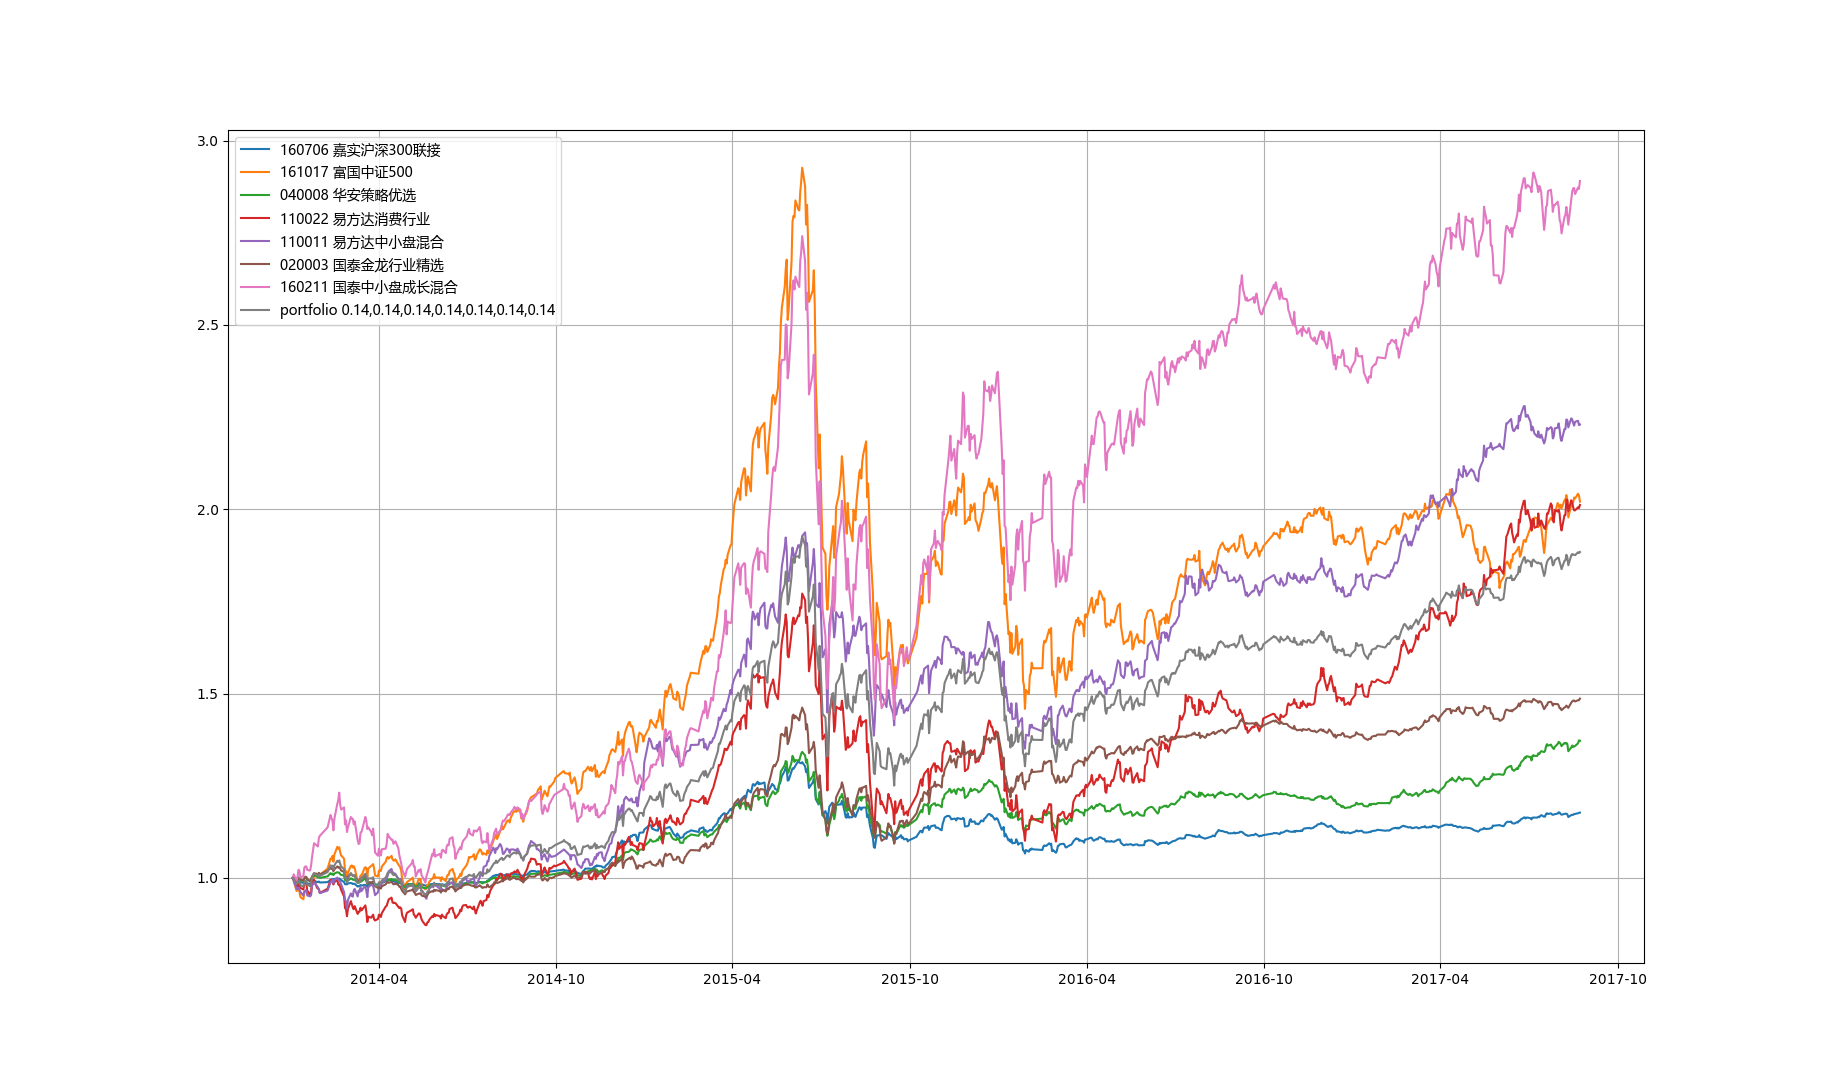
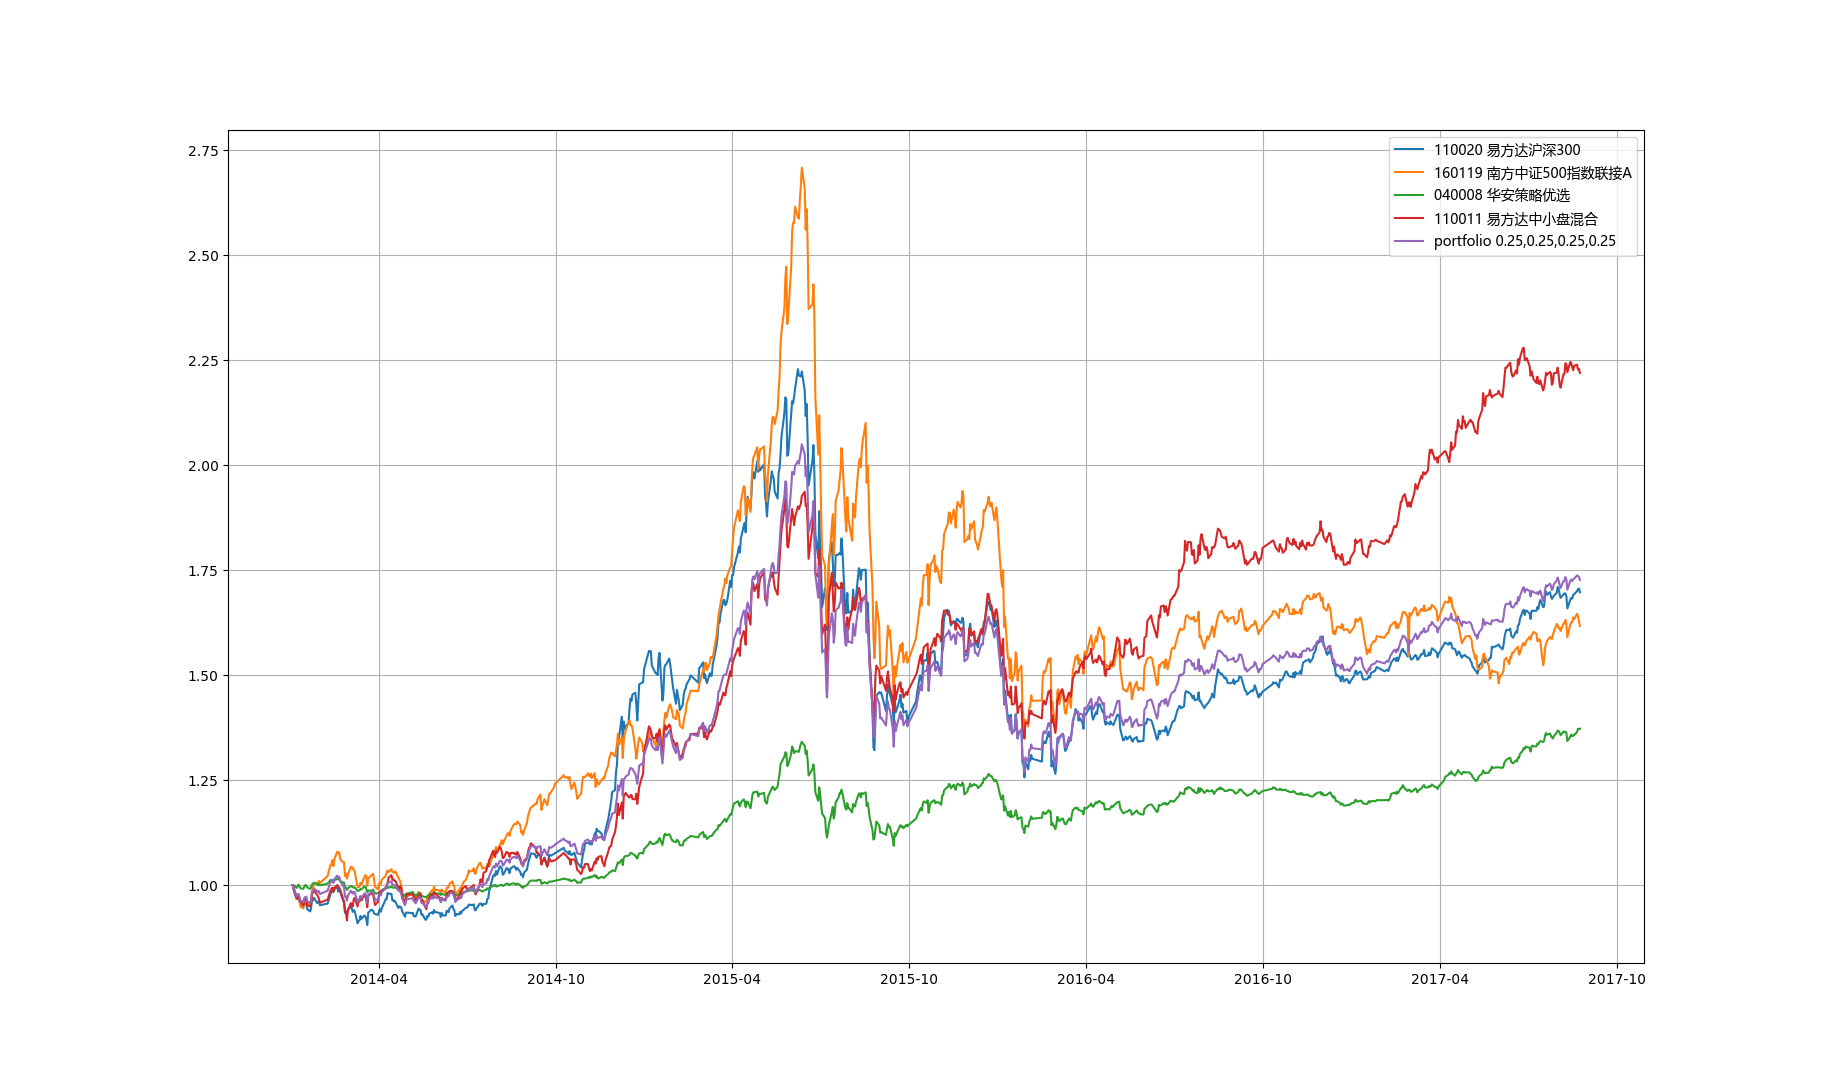
minor changes

diff --git a/funddata.py b/funddata.py
@@ -13,12 +13,13 @@ import pandas as pd
 import matplotlib.pyplot as plt
 import matplotlib.font_manager as fm
 import sys
+import os.path
 
 if __name__ == "__main__":
 
     startdate = '2014-01-01'
     enddate = '2017-08-31'
-    codelist = ['160706', '161017', '040008', '110022', '110011', '020003', '160211']
+    codelist = ['110020', '160119', '040008', '110011']
     use_unitnetvalue = True
 
     # Read command line arguments
@@ -30,15 +31,18 @@ if __name__ == "__main__":
                 del codelist[:]
                 codelist = sys.argv[3:]
 
+    # Print arguments
+    print(os.path.basename(sys.argv[0]), startdate, enddate, ' '.join(codelist))
+
     # portfolio weights
     weightlist = [1/len(codelist) for i in codelist]
 
-    print(startdate, enddate, codelist)
+    # Use unit net value or accumulated net value
+    value_field = 'fld_unitnetvalue' if use_unitnetvalue else 'fld_netvalue'
 
     # Generate URLs from start date, end date and code list
-    urls = ['http://data.funds.hexun.com/outxml/detail/openfundnetvalue.aspx?fundcode='
-          +fundcode+'&startdate='+startdate+'&enddate='+enddate
-          for fundcode in codelist]
+    urls = ['http://data.funds.hexun.com/outxml/detail/openfundnetvalue.aspx?fundcode={0}&startdate={1}&enddate={2}'
+            .format(i, startdate, enddate) for i in codelist]
     namelist = []
     timeserieslist = []
 
@@ -54,7 +58,7 @@ if __name__ == "__main__":
         for child in tree:
             if child.tag == 'Data':
                 datelist.append(datetime.strptime(child.find('fld_enddate').text, '%Y-%m-%d'))
-                valuelist.append(float(child.find('fld_unitnetvalue' if use_unitnetvalue else 'fld_netvalue').text))
+                valuelist.append(float(child.find(value_field).text))
 
         # Create a time series from the lists
         valuelist = [i/valuelist[-1] for i in reversed(valuelist)]

diff --git a/README.md b/README.md
@@ -5,7 +5,7 @@ The code was written in and tested with Python 3.6 (Anaconda 4.4.0).
 ## Usage
 #### Run funddata.py with command line arguments of start date, end date and a list of fund codes
 #### Example:
-python funddata.py 2014-01-01 2017-08-31 160706 161017 040008 110022 110011 020003 160211
+python funddata.py 2014-01-01 2017-08-31 110020 160119 040008 110011
 
 ## Plot of unit net values
 ![Screenshot](fld_unitnetvalue.png)
